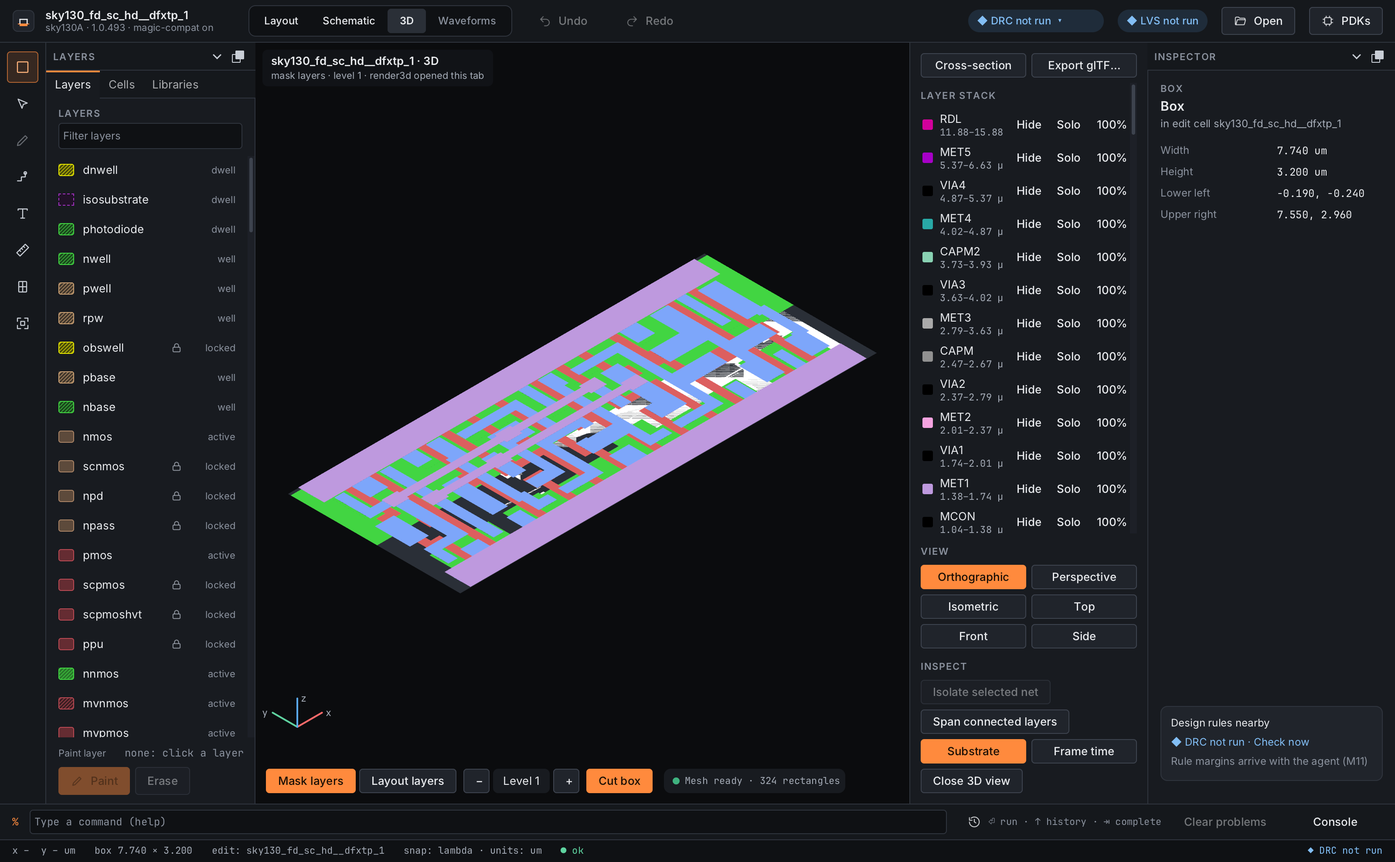
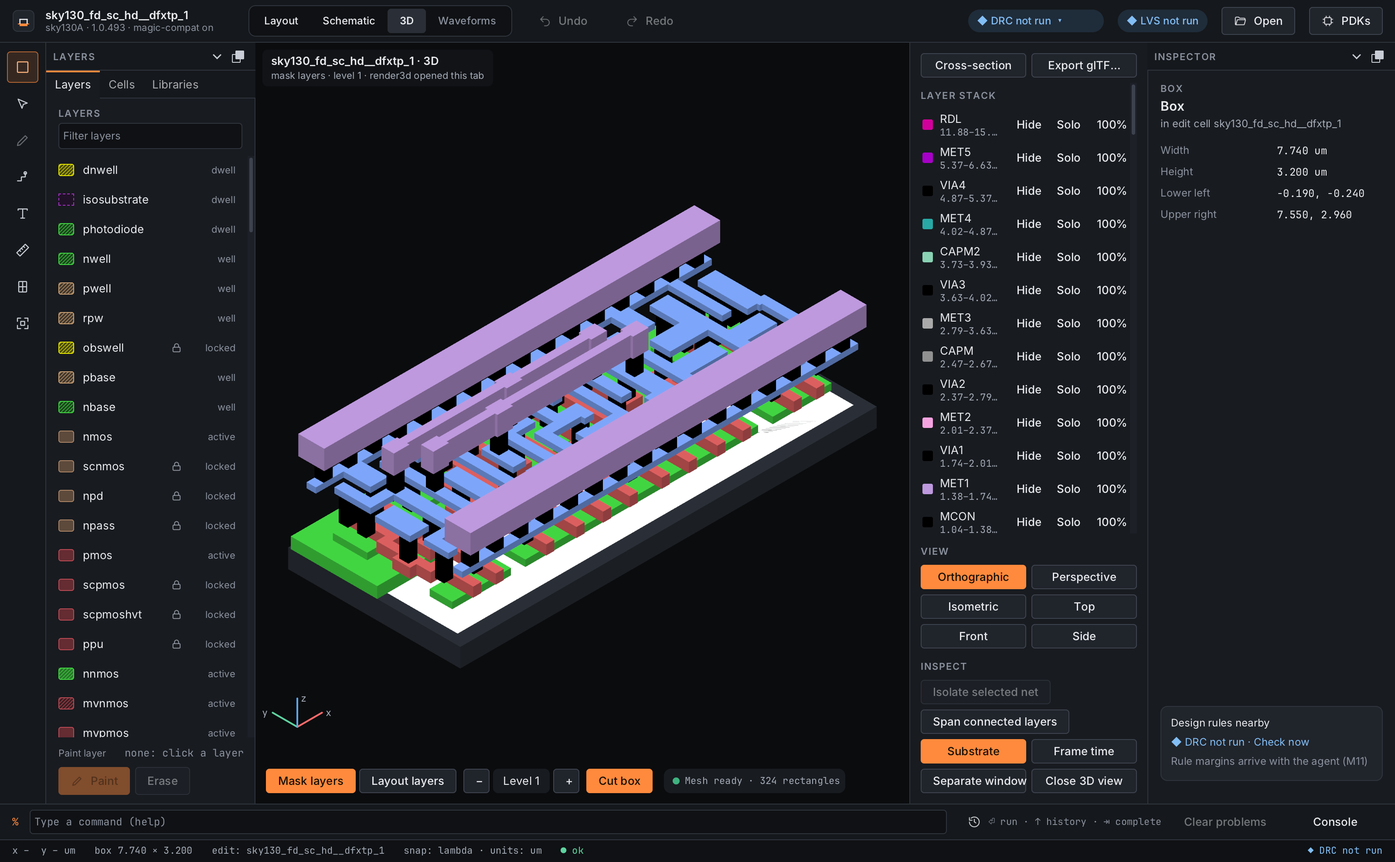
M10 3D round 6 SHELL: captures, conformance 'Round 6', README 3D section, tasks 9.6/10.4/17.2/17.3
After captures (macOS): dfxtp_1 mask-layer mode in proportion with
magic-compat ON and OFF, ellipsized layer rows at 1280 px, the inv_1 net
overlay, the detached 3D window. README shows the mask-layer board view.

Changed region(s): [[0.1875, 0.2467, 0.625, 0.771], [0.6875, 0.8943, 0.8125, 0.9252]]

diff --git a/docs/design/m10-3d-ui-conformance.md b/docs/design/m10-3d-ui-conformance.md
@@ -34,6 +34,22 @@ Round 5 (SHELL, branch `m10-3d-round5-shell`, 2026-11-25; tasks 9.6, 11.5): befo
 
 Round 5 integration (branch `m10-3d-round5`, 2026-11-25; task 10.2): the tab now builds the mask-layer mesh in mask-layer mode (MASKSRC's `view3d::window_build`). Before (the merged branch before the shell edit, kept out of the repository): sky130A's `dfxtp_1` opens in mask-layer mode with the "Mask layers arrive in phase 2" notice over the layout-layer mesh scaled by f (875 rectangles, the layout layers listed). After, macOS (same machine and build type, 1600 × 989, `hefesto -T sky130A.tech <cell>.mag --run 'magic::render3d' --capture …`): [view3d-mask-dfxtp1-macos.png](../images/ui/view3d-mask-dfxtp1-macos.png) (magic-compat ON: no notice, the stack lists sky130A's mask layers RDL … MCON with their `render` µm ranges, "Mesh ready · 324 rectangles"); [view3d-mask-dfxtp1-compat-off-macos.png](../images/ui/view3d-mask-dfxtp1-compat-off-macos.png) (magic-compat OFF: the same layers with Q-MISC-72's µm heights converted to internal units); [view3d-mask-section-dfxtp1-macos.png](../images/ui/view3d-mask-section-dfxtp1-macos.png) (1280 × 800, Cross-section pressed in mask-layer mode: "A–A′ 7.74 µm · 4 layers", the box's width, so the line is scaled to the mesh's mask units; layers without a `render` height named with `VIEW3D-STACK-001`). With magic-compat ON the stack is drawn almost flat: Q-MISC-72 keeps the `render` values as stored (µm) while x and y are in mask units, and the board z scale (`board_scale_z`, kBoardScaleZ × f) was chosen for layout-layer heights; coplanar layers z-fight in that view. Reported to the user (the opening z scale is an open round-4 item); OFF is in proportion. The mask-layer stack ghosts nothing (Q-MISC-85 classifies layout layers).
 
+Round 6 (SHELL, branch `m10-3d-round6-shell`, 2026-11-26; tasks 9.6, 10.4 desktop part, 17.2, 17.3 desktop part; CORE's and RENDER's round-6 branches merged first). Before captures are the round-5 images these replace (the origin/main state, kept out of the repository): sky130A's `dfxtp_1` in mask-layer mode drawn nearly flat with magic-compat ON, in proportion with OFF; the layer rows' long names and ranges clipped by the row buttons at 1280 × 800; no net overlay; no separate window. After captures, macOS (Apple M3 Pro, MoltenVK, debug build, `hefesto -T sky130A.tech <cell>.mag --run '…' --capture …`, Magic's `mos` styles in a CAD_ROOT): [view3d-mask-dfxtp1-macos.png](../images/ui/view3d-mask-dfxtp1-macos.png) (`magic::render3d`, mask-layer mode, magic-compat ON, 1600 × 989) and [view3d-mask-dfxtp1-compat-off-macos.png](../images/ui/view3d-mask-dfxtp1-compat-off-macos.png) (`setting set magic-compat off` first): the same picture, the stack in proportion; [view3d-dfxtp1-1280-macos.png](../images/ui/view3d-dfxtp1-1280-macos.png) (layout layers, 1280 × 800: "mrdlcont…", "mimcap2…" and the ranges ellipsized); [view3d-net-overlay-inv1-macos.png](../images/ui/view3d-net-overlay-inv1-macos.png) (`sky130_fd_sc_hd__inv_1`, `select area metal1` over the cell, mask-layer mode, magic-compat ON: the VPWR and VGND nets in the overlay colour over the mask layers; OFF gives the same picture); [view3d-detach-tab-macos.png](../images/ui/view3d-detach-tab-macos.png) (1280 × 800, "Detach view" pressed: the tab says where the view went) and [view3d-detach-window-macos.png](../images/ui/view3d-detach-window-macos.png) (the second window, `screencapture -l` of its window id: the same isometric board view). In a debug build the mask-layer tab builds twice on opening (a full 2D redisplay right after `render3d` resets the build key), so a 90-frame capture can still show "Building mesh · 0 %"; the after captures run 1500 frames (open item, "Round 6"). Linux captures come from the PR's CI desktop legs (`view3d-captures-<leg>`; open).
+
+## Round 6: board z scale, net overlay, layer rows, detach, export formats (tasks 9.6, 10.4, 17.2, 17.3)
+
+Compared with the board `docs/design/mockups/View3D.dc.html` and the round-6 after captures.
+
+| Element | Seen in the after captures | Status / gap |
+|---|---|---|
+| Mask-layer stack in proportion with magic-compat ON (17.2, B1) | The tab's opening isometric camera and the presets set s_z = kBoardScaleZ × f / (µm per internal unit) in mask-layer mode with magic-compat ON (`board_scale_z(window, stack)`), through the same absolute `zoom`; OFF keeps kBoardScaleZ × f; layout-layer mode keeps 1. dfxtp_1 in mask-layer mode looks the same with ON and OFF, the metal rails standing over li1 and the diffusions. Windows opened by `specialopen wind3d`, scripts and `defaults` keep Magic's s_z. A µm per unit that is zero or not finite keeps kBoardScaleZ × f (test). | done (macOS, both modes) |
+| Net overlay in mask-layer mode (10.4) | With layout paint selected in 2D, the selection's nets (`view3d::net_overlay`, hierarchical) are drawn by RENDER's overlay pass in `overlay_color` over the mask layers; recomputed with the highlight on selection, mode and model changes, for the drawn model only; layout-layer mode keeps the instance highlight. Each prism spans the drawn stack's z range (CORE's design), so on inv_1 the columns run from the substrate to the technology's top layer, above the framed cell. | partial: drawn, correct in plan; the column height (the whole stack, not the net's own layers) looks heavy (open item for CORE) |
+| Layer row text at 1280 × 800 | Names and ranges are ellipsized to the row ("mrdlcont…", "7.26–10.2…") before the row buttons; the tooltip and the screen-reader name keep the full text ("mrdlcontact, 6.63–7.26 µm, shown"). Test "long layer names are ellipsized to the row and keep their full name for tooltips and screen readers". | done (macOS 1280 × 800); the board shows the row buttons only on hover, here they stay (keyboard reach) |
+| "Open in separate window" | The side panel's "Window" pair has "Detach view" (a toggle; the label "Separate window" was cut off in its grid cell at 1280 px): the 3D view moves to a second Raven window (`Rwindow_create`) with its own texture-mode viewport, on the same session window; the tab shows "Shown in a separate window." and how to bring it back; closing the window or turning the toggle off returns the view to the tab. | done (macOS: second window captured); a side-panel toggle, not a menu item on a tab caret (Raven's segmented control has no per-segment menu) |
+| Export formats (11.5 polish) | "Export glTF…" opens a menu: glTF, GLB, STL (one solid per layer) and STL merged, each running `<path> export3d <file> -format gltf\|glb\|stl [-merged]` after the save dialog. Tests "Export offers glTF, GLB and STL per layer or merged as export3d's -format and -merged", "Export from the tab runs export3d with the chosen format and writes it". | done (headless; Raven's popup menu under the button) |
+| Span connected layers (17.3) | The toggle sets the window's `span_connected_layers` (CORE), so `export3d` from the tab exports what is shown; the build key follows it (a full build). | done (headless, both modes) |
+| Mesh status while the mask-layer tab opens | The tab builds the mask-layer mesh twice on opening: a full 2D redisplay owed right after `render3d` resets the build key; the chip reads "Building mesh · 0 %" for a few seconds in a debug build. | partial: open item (tell a redisplay from an edit before a full rebuild) |
+
 ## Round 5: floating toolbar, fit at 1280 × 800, P2 screen part (tasks 9.6, 11.5)
 
 Compared with the board `docs/design/mockups/View3D.dc.html` and the round-5 after captures.
@@ -45,9 +61,9 @@ Compared with the board `docs/design/mockups/View3D.dc.html` and the round-5 aft
 | Presets and projection | Pinned under the scrolled layer stack ("View"), always visible, as the board pins them to the bottom of its aside; the layer list scrolls above them. | done (macOS) |
 | Cross-section (task 11.5) | The "Cross-section" toggle cuts A–A′ along the layout box's long axis (axis-aligned; else the cut box, else the cell's bounding box), clips the 3D view at the vertical plane through the line (`DrawParams::section_plane`, keeping the side away from the isometric viewer) and shows the "Cross-section A–A′" panel under Inspect: each layer's intervals from h to h + t in µm (`view3d::section`, hidden layers left out) in its display style's colour at the row's transparency, the line's length, the layers with no height named; the section's diagnostics go to the console once per line (the window test's tech, which has no µm scale, reports `VIEW3D-SECTION-002`). With Cross-section on, two clicks in the 3D view set A and A′ on the z = 0 plane (`view3d::ground_point`; front and side views see the plane edge on, so a click there picks). | done (macOS: dfxtp_1 cut along its long axis, panel with 6 layers; the window test's cell with the warning); the board draws the panel in the right aside, here it is under Inspect in the side panel |
 | Export glTF… (task 11.5) | Asks for a file with the platform save dialog (`platform::FilePicker`: glTF, glTF binary, STL; "<cell>.gltf" proposed) and runs `<path> export3d <file>` (or plain `export3d <file>` when the command is not in the 3D window's table). | done at integration: `export3d` (EXPORT, D14) is registered on the round branch, and the button is enabled in the round-5 integration captures |
-| Mask-layer mode (task 10.2) | No "phase 2" notice; the mask layers of the current output style, in mask units, with their `render` heights; the mask visibility set hides layers; the stack lists the mask layers. | done (macOS, both modes); magic-compat ON draws the stack nearly flat (see "Round 5 integration" above) |
+| Mask-layer mode (task 10.2) | No "phase 2" notice; the mask layers of the current output style, in mask units, with their `render` heights; the mask visibility set hides layers; the stack lists the mask layers. | done (macOS, both modes); round 6: in proportion with magic-compat ON too (see "Round 6") |
 | Substrate slab | A "Substrate" toggle (default on, the board look) sets `DrawParams::substrate` from `view3d::substrate_slab`: the dark slab under the stack in every after capture. | done (macOS); not listed as a layer-stack row as on the board ("substrate · ghosted"): it is not a layer |
-| Layer row text at 1280 × 800 | The rows end before the scroll bar; long sky130A names and their µm ranges ("mrdlcontact", "6.63–7.26 µm") are clipped by the three row buttons. | partial: clipped long names (the board shows the row buttons only on hover) |
+| Layer row text at 1280 × 800 | The rows end before the scroll bar; long sky130A names and their µm ranges ("mrdlcontact", "6.63–7.26 µm") are clipped by the three row buttons. | Round 6: done (ellipsized, full text in the tooltip and screen-reader name; see "Round 6") |
 
 ## Round 4 board look (Q-MISC-84, Q-MISC-85; tasks 16.6-16.8, 16.10)
 
@@ -97,7 +113,7 @@ Round 3 (SHELL): `Mesh3dSpike` is removed (`mesh3d_spike.hpp|.cpp`, the `mesh3d_
 |---|---|---|
 | Editor-view tab "3D" next to Layout and Schematic | The segmented control's "3D" is live: a click shows the 3D view (a second Raven viewport in texture mode beside the layer stack panel), or runs `magic::render3d` when no window is open; "Layout" shows the canvas again. Enter or Space on the focused control toggles the two. | done (macOS and Linux X11/Wayland captures) |
 | Window > 3D Display and `render3d` open the tab | Options > 3D Display (Magic's wrapper puts it under Options) is enabled; any open of the 3D window (`render3d`, `specialopen wind3d`) shows the tab, `closewindow` returns to Layout. Test "Options > 3D Display is enabled". | done (opened by `render3d` in the macOS and Linux captures) |
-| "Open in separate window" tab menu item | Not built: a Raven window per tab needs a second texture-mode viewport host. | todo (open item, P2) |
+| "Open in separate window" tab menu item | Round 6: the "Detach view" toggle hosts the view in a second Raven window with its own texture-mode viewport (see "Round 6"). | done (macOS); a side-panel toggle, not a tab-caret menu item |
 | Progress while a mesh builds; the previous model stays visible | One `MeshWorker` per window; status line "Building mesh · n %", then "Mesh ready · n rectangles"; the previous model stays drawn until the new one is done. | partial: "Mesh ready" seen in the macOS capture; the progress state is too short on a cell to capture |
 | Focus-based command routing (`.magic3d <cmd>` and the command bar) | While the 3D tab is shown, a typed line whose first word is a `wind3d` command runs as `<path> <line>`; keys in the 3D view run the `wind3d` macro table on the path. Tests "lines typed while the 3D view has the focus go to the window's path", "keys in the 3D view run the wind3d bindings on the window's path". | done (headless) |
 | "Mask layers arrive in phase 2" notice in mask-layer mode (D1) | A warning banner at the top of the view in mask-layer mode; the layout mesh is drawn with xy scaled by f through `DrawParams::xy_scale` (integrated in round 3). | done |
@@ -123,14 +139,14 @@ Round 3 (SHELL): `Mesh3dSpike` is removed (`mesh3d_spike.hpp|.cpp`, the `mesh3d_
 | Click picks a target; 3D → 2D selection and scroll | A left click (under 3 px of motion) reads the pick image, then `view3d::resolve` and `view3d::to_selection`; the caption "layer · picked · selected in 2D" shows bottom right. Integrated in round 3 with INSPECT's `resolve(mesh, PickContext, id)` (stack, rendered cell, compat flag set through `PickResolver::set_scope`). Tested with a fake resolver and a real-mesh resolver test. | partial: the 2D canvas does not scroll to `link_to_2d`'s area yet (no core hook) |
 | 2D selection highlighted in 3D | `view3d::from_selection` after every command, passed as `DrawParams::highlight`; the overload with the drawn stack. | done |
 | "Isolate selected net" | Toggle button: `view3d::net_highlight` of the picked target as the highlight (hierarchical search, the drawn stack, the project's compat flag). | done |
-| "Show contacts and vias" (J1 "Span connected layers") | "Span connected layers" toggle: a full build with `span_connected_layers` and the technology. | done (headless) |
+| "Show contacts and vias" (J1 "Span connected layers") | "Span connected layers" toggle: a full build with `span_connected_layers` and the technology; round 6: the window's flag, so `export3d` exports spanned. | done (headless) |
 
 ## Later phases
 
 | Element | Phase | Status / gap |
 |---|---|---|
 | Cross-section tool and the A–A′ section panel | P2 (task 11.5) | done (round 5, macOS; see "Round 5") |
-| Export glTF with the file picker | P2 (task 11.5) | done (round 5 integration; see "Round 5") |
+| Export glTF with the file picker | P2 (task 11.5) | done (round 5 integration; round 6: glTF / GLB / STL / STL merged menu) |
 | Mask-layer source | P2 (task 10.2) | done (round 5 integration) |
 | Overlay dropdown and legend | P3 (task 15.1) | later |
 | Touch orbit and pinch zoom | M14 (iPadOS) | later |
@@ -146,7 +162,7 @@ Reviewed on 2026-11-22 against `docs/design/mockups/View3D.dc.html` with the mac
 | View toolbar along the bottom of the 3D view (mode, level, cut box, mesh status) | Round 5: floats over the bottom of the view as on the board, flowing into rows on a narrow view (see "Round 5"). | done (macOS) |
 | Orthographic / Perspective and the presets | Round 5: the side panel's "View" section, pinned under the scrolled layer stack, in the board's two-column grid. | done (macOS) |
 | Inspect group (Isolate selected net, Span connected layers) | In the side panel's "Inspect" section with Frame time and Close 3D view. | done (picking integrated in round 3) |
-| Tab menu ("Open in separate window", "Close 3D view") | "Close 3D view" is a side-panel button; "Open in separate window" is not built. | todo (P2) |
+| Tab menu ("Open in separate window", "Close 3D view") | Both are side-panel buttons ("Detach view" since round 6, "Close 3D view"). | done (macOS); not on a tab caret |
 | Pick callout ("metal1 · VPWR, picked · selected in 2D") | Caption at the bottom right after a click. | blocked: INSPECT |
 
 ## Accessibility (task 9.6)
@@ -160,7 +176,8 @@ Checked on 2026-11-25 (round 5) on the running app (macOS 1280 × 800, the windo
 | State of toggles | Toggles announce ", on" / ", off" in the name (AXButton "Cut box, on", "Perspective, off"). Raven exposes a checked state (AXValue) only for its own check boxes, menu items and tabs; a painted widget with the toggle role has no way to set it. | partial: state in the name, not in AXValue; upstream Raven item (an accessible checked state for custom widgets) |
 | Groups and roles | AXToolbar "3D view toolbar" with AXGroups "Layer source (cif)" and "Rendering level"; AXGroup "3D view controls" (pane) with groups "3D actions", "Projection", "Camera", "View options"; AXList "Layer stack, top layer first"; section headings as AXStaticText; the separator is hidden from screen readers. | done (AX tree); the board's radio groups (mode, projection) are toggle buttons: Raven's wrapper has no radio role with a selected state |
 | Disabled controls | Export glTF… (no `export3d`), Isolate selected net (nothing picked) report `enabled = false` (`set_enabled` follows `control_view`). | done (AX tree) |
-| Outside the 3D tab | The tree also has an unnamed AXButton between the 3D tab and the inspector, and one after "Zoom to fit" (main window widgets, outside SHELL's 3D files; open item). | open item (main window) |
+| Outside the 3D tab | The tree also has an unnamed AXButton between the 3D tab and the inspector, and one after "Zoom to fit" (main window widgets, outside SHELL's 3D files; open item). Round 6: both are the 1-px separators of `make_separator` (no name, hit-testing off, but published as buttons): the tool-rail edge (`main_window.cpp`) is now hidden from screen readers as the 3D panel's edge is; the inspector's edge (`side_panels.cpp`) is still listed. | partial: rail edge fixed (1-line edit, ownership exception); inspector edge open item |
+| Round 6 controls | Tree read on 2026-11-26 (same method, `sky130_fd_sc_hd__dfxtp_1` at 1280 × 800 after a press on "Detach view"): two windows, "sky130_fd_sc_hd__dfxtp_1 · 3D" with an AXGroup "3D view" (the detached viewport) and the main window; in the side panel the AXGroup "Window" with AXButtons "Detach view, on" and "Close 3D view"; "Span connected layers, off"; the ellipsized rows keep the full names ("Isolate mrdlcontact", "Isolate mimcap2contact"); the status AXGroup "Mesh ready · 875 rectangles". The net overlay adds no control (it follows the 2D selection). A re-read after the rail-edge fix was attempted twice and System Events returned no windows for the process (shared Mac; not retried further), so that fix is checked by code and by the round-5 tree, where the 3D panel's separator hidden the same way was absent. | done (AX tree) for the round-6 controls; rail-edge fix not re-read |
 
 ## Performance (PERF, section 13)
 

diff --git a/openspec/changes/m10-3d-view/tasks.md b/openspec/changes/m10-3d-view/tasks.md
@@ -110,6 +110,7 @@ How this plan runs:
 - [x] 9.6 (SHELL) Desktop review of P1 against the board, keyboard and screen-reader labels for every control. Verify the review entries in `docs/design/m10-3d-ui-conformance.md`.
   As landed (round 3, SHELL): review entries in the conformance doc ("Desktop review of P1" and "Accessibility"); every control is a focusable button with a screen-reader name, toggles announce on/off; macOS screenshot `docs/images/ui/view3d-macos.png`; macOS and Linux (X11, Wayland) captures of the 3D tab test `view3d-tab-*.png`. Left open: a VoiceOver pass, the bottom view toolbar of the board (the parity controls sit in the side panel) (the README image is the new capture `view3d-macos.png`, done at integration; `view3d.png` stays as the mock-up render). Integration round 3: still open for the VoiceOver pass on the running app and the board's bottom view toolbar; neither is a D19 P1 exit criterion.
   As landed (round 5, SHELL, branch `m10-3d-round5-shell`): the toolbar floats over the bottom of the view (`raven_ui` `Widget::place_bottom_left`, new) and flows into rows on a narrow view; the side panel's paired buttons and presets are a two-column grid pinned under the scrolled layer stack, so every control fits at 1280 x 800 (regression test "the side panel's button grid and the floating toolbar fit a 1280-px-wide window"). Screen-reader pass: the running app's accessibility tree, read through System Events (VoiceOver not turned on, shared Mac), shows every 3D-tab control with its role and name; names and states come from `control_view` (tests "every 3D tab control has a screen-reader name and toggles announce their state", "controls are disabled, and exposed so, when they cannot act"). Gap: a painted toggle's on/off state is in its name, not AXValue (Raven has no checked state for custom widgets; upstream item). Review entries: conformance doc "Round 5" and "Accessibility".
+  As landed (round 6, SHELL, branch `m10-3d-round6-shell`): accessibility tree of the running app re-read through System Events (read-only, VoiceOver off): every 3D-tab control named, including the new "Detach view, on|off" toggle and the full layer name of an ellipsized row; the two unnamed AXButtons of round 5 were 1-px separators (the tool-rail edge in `main_window.cpp`, now hidden from screen readers; the inspector edge in `side_panels.cpp`, open item); toggles keep the ", on"/", off" name (Raven exposes no checked state for painted widgets, upstream item). Layer rows ellipsize long names and ranges with the full text in the tooltip and screen-reader name (test "long layer names are ellipsized to the row ..."); "Open in separate window" is the "Detach view" toggle: the 3D view moves to a second Raven window with its own texture-mode viewport on the same session window, closing it returns the view to the tab (captures `view3d-detach-*-macos.png`). Conformance doc section "Round 6".
 
 ## 10. MASKSRC: mask-layer source (P2)
 
@@ -120,9 +121,10 @@ How this plan runs:
   As landed (round 5 integration, branch `m10-3d-round5`): the tab builds from `view3d::window_build` (layout or mask stack, worker inputs, hidden flags); `BuildKey` holds the mode and the mask source's output style (a style change is a full build); frames draw at xy scale 1 with `view3d::hidden_layers`; the notice, `tab_stack`, `xy_factor` and the shell's `clip_area` are gone; `board_scale_z` keeps kBoardScaleZ × f. `MeshModel::units_per_root` (the scale factor for a mask-layer mesh) lets the section, the clipping plane, the two-click line and `export3d` convert mask units. Tests: shell "mask-layer mode builds the mask layers in mask units and draws them unscaled", "mask-layer mode draws the mask-layer stack, which ghosts nothing", "a cut line in root coordinates is scaled to the mask-layer mesh's units"; core "cross-section of a mask-layer mesh in mask units", export "A mask-layer mesh in mask units is exported in µm", "export3d in mask-layer mode writes the mask layers in µm". Captures in the conformance doc ("Round 5 integration"). Open: picking in mask-layer mode resolves no layout tile (layers have no tile type) and the 3D→2D link would use mask units; that belongs to 10.4 (INSPECT).
 - [x] 10.3 Invalidate and regenerate planes per chunk on edits and style changes. Verify that a local edit regenerates only the affected chunks with the halo.
   As landed (round 5): `rebuild_mask_chunks` / `MeshWorker::changed` in mask-layer mode regenerate only the chunks within the halo of an edit (the edit grown by the radius, in mask units, grown by 1); an output-style change is a new source (full build). Test: `mask_source_test.cpp` "a local edit regenerates only the mask-layer chunks within the halo of it" (versions of untouched chunks kept; geometry equal to a fresh build).
-- [ ] 10.4 Net highlighting in mask-layer mode as a layout-net overlay (design D10). Verify the inverter net drawn over mask geometry.
+- [x] 10.4 Net highlighting in mask-layer mode as a layout-net overlay (design D10). Verify the inverter net drawn over mask geometry.
 
   As landed (round 6, CORE; data part): `view3d::net_overlay` (seed or 2D selection) gives the layout net as `NetOverlayPrism`s in mesh units over the drawn stack's z range, clipped to the cut box (design "As-landed: round 6 CORE"). Test `tests/unit/view3d/pick/net_overlay_test.cpp` "Net highlighted over mask-layer geometry" (both modes: areas equal `connect::search_flat`'s times units_per_root², z per Q-MISC-72, cut box, selection, empty cases). Open: RENDER's `DrawParams::net_overlay` and SHELL's wiring (desktop part).
+  As landed (round 6, SHELL; desktop part): in mask-layer mode the tab passes `view3d::net_overlay` of the 2D selection (hierarchical, the session's compat flag), recomputed with the highlight against the drawn model (so a stale model of the other mode draws none), to `DrawParams::net_overlay` (`mask_net_overlay`, `overlay_prisms<render::OverlayPrism>`); layout-layer mode keeps the instance highlight. Tests `view3d_models_test.cpp` "Net highlighted over mask-layer geometry with magic-compat ON" / "... OFF". Capture `docs/images/ui/view3d-net-overlay-inv1-macos.png` (`sky130_fd_sc_hd__inv_1`, `select area metal1`, mask-layer mode): the prisms span the drawn stack's z range (CORE's choice), so they rise above the framed cell (open item).
 
 ## 11. INSPECT and EXPORT (P2)
 
@@ -226,7 +228,9 @@ Decisions of 2026-11-25 (set A) and 2026-11-26 (set B), all approved with the re
 
 - [x] 17.1 (DECIDE) Record the 2026-11-25 and 2026-11-26 decisions: new entries Q-MISC-86 (A1, A2), Q-MISC-87 (B18), Q-MISC-88 (B19) and Q-MISC-89 (B20) with `Status: approved <date>` and `- Resolution:`; the amendments of Q-MISC-84 (A4-A6, B1) and Q-MISC-85 (A7-A9, B2, B3, B7, B16); the other items under "Round-5 decisions without a Q row" and "Round-6 decisions without a Q row"; the decision table's "Round 5 and 6 decisions", counts and notable changes; the spec amendments with scenarios; design D7, D8, D10, D14, D15, the round-3 sign-off and "Decisions this design depends on". Verify `openspec validate --all --strict` and that `python3 scripts/check_milestone_readiness.py --milestone M10` lists no entry cited by view-3d or hefesto-3d-visualization.
   As landed (branch `m10-3d-round6-decide`): Q-MISC-86..89 were free on origin/main and on every remote and local branch (Q-MISC-90..93 are taken). Scenarios added: view-3d "Temporary mask layer drawn with magic-compat ON", "Temporary mask layer left out with magic-compat OFF", "Mask generation errors reported once per build with magic-compat ON", "Mask generation errors not reported with magic-compat OFF", "Mask-layer board view in proportion with magic-compat ON", "Mask-layer board view with magic-compat OFF", "Magic's z scale unchanged outside the desktop tab in mask-layer mode"; hefesto-3d-visualization "Cross-section of a split tile and of a tile edge", "Net highlighted over mask-layer geometry", "Export of a spanned view keeps the span". Amended: "Isometric default in mask-layer mode", "setpoint names the window script commands go to", "Clipping plane hides one side", "Substrate slab under the stack", "Export without a 3D window", "Per-layer STL". The "pending the user's confirmation" wording is gone from view-3d and the decision table. `docs/specs-index.md` regenerated.
-- [ ] 17.2 (SHELL) B1: in the desktop tab, in mask-layer mode with magic-compat ON, the board z scale (`board_scale_z`, the opening isometric `zoom`) is `kBoardScaleZ` × f / (µm per internal unit); with OFF it stays `kBoardScaleZ` × f; `defaults` and windows opened by `specialopen wind3d`, scripts or hefesto-cli keep Magic's s_z. Verify `[cap:view-3d][req:Viewing transform and shading]` view-model tests, one per mode: "Mask-layer board view in proportion with magic-compat ON", "Mask-layer board view with magic-compat OFF", "Magic's z scale unchanged outside the desktop tab in mask-layer mode", and the amended "Isometric default in mask-layer mode"; the ON test fails without the change.
-- [ ] 17.3 (CORE, SHELL) B17: J1's "Span connected layers" flag in `view3d::WindowState` (CORE: the field, `window_build`'s inputs and `export3d` reading it; SHELL: the desktop toggle edits the window's flag instead of `View3dOptions`, and the tab's build key follows it). Verify `[cap:hefesto-3d-visualization][req:3D export]` "Export of a spanned view keeps the span" (a spanned via exported from the top of metal1 to the bottom of metal2, unspanned with the option off, both modes) and a SHELL view-model test that the toggle sets the window's flag.
+- [x] 17.2 (SHELL) B1: in the desktop tab, in mask-layer mode with magic-compat ON, the board z scale (`board_scale_z`, the opening isometric `zoom`) is `kBoardScaleZ` × f / (µm per internal unit); with OFF it stays `kBoardScaleZ` × f; `defaults` and windows opened by `specialopen wind3d`, scripts or hefesto-cli keep Magic's s_z. Verify `[cap:view-3d][req:Viewing transform and shading]` view-model tests, one per mode: "Mask-layer board view in proportion with magic-compat ON", "Mask-layer board view with magic-compat OFF", "Magic's z scale unchanged outside the desktop tab in mask-layer mode", and the amended "Isometric default in mask-layer mode"; the ON test fails without the change.
+  As landed (round 6, SHELL): `board_scale_z(window, stack)` divides kBoardScaleZ × f by `LayerStack::microns_per_unit` in mask-layer mode with the stack's magic-compat ON (zero, negative or non-finite µm per unit, or a non-finite result, keep kBoardScaleZ × f); the opening isometric camera and the presets use it through the same absolute `zoom`. Tests: the three named scenarios plus "the mask-layer board z scale ignores a µm per unit that is zero or not finite". Captures `view3d-mask-dfxtp1-macos.png` (ON) and `view3d-mask-dfxtp1-compat-off-macos.png` (OFF): the same picture.
+- [x] 17.3 (CORE, SHELL) B17: J1's "Span connected layers" flag in `view3d::WindowState` (CORE: the field, `window_build`'s inputs and `export3d` reading it; SHELL: the desktop toggle edits the window's flag instead of `View3dOptions`, and the tab's build key follows it). Verify `[cap:hefesto-3d-visualization][req:3D export]` "Export of a spanned view keeps the span" (a spanned via exported from the top of metal1 to the bottom of metal2, unspanned with the option off, both modes) and a SHELL view-model test that the toggle sets the window's flag.
+  As landed (round 6, SHELL; desktop part): the "Span connected layers" toggle calls `toggle_span_connected_layers` (`view3d::set_span_connected_layers` on the tab's path); `View3dOptions::span_connected_layers` is gone, the build key and the control's state read the window's flag. Test "the Span connected layers toggle sets the window's flag, which the build and export3d read" (both modes; the Export menu's `export3d` command writes the file).
 - [ ] 17.4 (CORE) B20, Q-MISC-89: with magic-compat ON the generation errors of a 3D mask-layer build (full or incremental) are reported once per build to the console, never as feedback; with OFF they are not reported. Verify `[cap:view-3d][req:Rendered geometry]` "Mask generation errors reported once per build with magic-compat ON" (one report for a build followed by two redraws, no feedback area) and "Mask generation errors not reported with magic-compat OFF"; the ON test fails without the change.
 - [ ] 17.5 (RENDER) Coplanar faces of different layers (or a layer and the substrate slab, or the 10.4 overlay) are drawn deterministically, with no z-fighting: the same pixels on every frame and every orbit angle, the later layer in style-table order winning (Q-MISC-77). Verify `[cap:view-3d][req:Viewing transform and shading]` a headless image test of two coplanar layers in the isometric preset and after small orbits (identical winner per pixel across frames, both modes) that fails without the fix.

diff --git a/openspec/changes/m10-3d-view/design.md b/openspec/changes/m10-3d-view/design.md
@@ -652,3 +652,14 @@ Branch `m10-3d-round6-core` (view3d client, mesh, pick, export; R5 items 17 and 
 - **Mask generation errors (R5 item 20, compat).** `BuildContext::sink` and `BuildInputs::sink` (copied by `build_once`; called on the build thread, so a worker's host passes a thread-safe sink). `build_mask` (a full mask-layer build) generates with `report_errors` and `GenerationContext::sink` set to the build's sink when `MaskSource::generation.compat.magic_compat` is set; `rebuild_mask` (incremental chunks) never reports, so one build reports once and a new full build (style change, `build()`) reports again. Never as feedback (`GenerationContext::problems` is not read). OFF reports nothing. The errors keep their mask codes (e.g. MASK-OPER-004); no VIEW3D code was added. `build_scene` passes ctx's sink; `export3d` passes the command's sink.
 - **Net overlay (task 10.4, data part).** `view3d::net_overlay(mesh, editor, window, seed|selection, NetOptions)` in `pick/pick.hpp` returns `NetOverlay{prisms, types}` of `NetOverlayPrism{x0, y0, x1, y1, z_bottom, z_top}`: the net's tiles (through `connect::search_flat` or `search_hierarchical`, painted into a scratch cell and read back per type on its home plane, so a contact appears once; a split tile as its bounding box), clipped to the window's cut box, xy in absolute mesh units (root coordinates times `units_per_root`, the space the chunk origins are in: the renderer draws them with the chunk transform of origin (0, 0)). z convention: every prism spans the drawn stack, from the lowest h to the highest h + t of the mesh's layers with a positive thickness (every layer when none has one), unscaled by s_z like `layer_heights`, so the Q-MISC-72 split applies. The selection overload unites the nets of the selected tiles and needs the selection rooted in the rendered cell; it is the mask-layer entry point (picking resolves no layout tile there). The net search shared with `net_highlight` moved to `pick/net.cpp` (`detail::NetPaint`, `search_net`, `usable_seed`). RENDER adds `render::OverlayPrism` with the same fields and `DrawParams::net_overlay` and `overlay_color`; SHELL converts and draws it in mask-layer mode only.
 - **setpoint compat row.** Both modes already had a test (`routing_test.cpp`, "setpoint naming a window ..."); no change.
+
+## As-landed: round 6 SHELL
+
+Branch `m10-3d-round6-shell` (`shell/desktop` 3D view and view models; tasks 9.6, 10.4 desktop part, 17.2, 17.3 desktop part; CORE's and RENDER's round-6 branches merged in).
+
+- **B1 board z scale (17.2).** `board_scale_z(window, stack)`: kBoardScaleZ × f in mask-layer mode, divided by `LayerStack::microns_per_unit` when the stack's magic-compat is ON (heights as stored in µm under x and y in mask units); a zero, negative or non-finite µm per unit, or a non-finite result, keeps kBoardScaleZ × f. The opening isometric camera and the presets apply it with the same absolute `zoom`; `defaults`, `specialopen wind3d` and script windows keep Magic's s_z. dfxtp_1 in mask-layer mode now looks the same with ON and OFF.
+- **J1 toggle (17.3).** `toggle_span_connected_layers(session, path)` flips `WindowState::span_connected_layers` through CORE's `set_span_connected_layers`; `View3dOptions::span_connected_layers` is removed; the build key, the build inputs and the control's state read the window's flag, so the tab's `export3d` exports spanned.
+- **Net overlay (10.4).** `mask_net_overlay(mesh, editor, window, compat)` is `view3d::net_overlay` of the 2D selection in mask-layer mode against the drawn model (empty in layout-layer mode, without a model, or for a model of the other mode); `overlay_prisms<render::OverlayPrism>` copies the prisms field by field into `DrawParams::net_overlay`. It is recomputed with the highlight (selection, mode and model changes). RENDER's fields arrived before the end of the round, so no compile-time guard is left.
+- **P2 polish.** Export menu (glTF, GLB, STL, STL merged → `export3d <file> -format … [-merged]`, `PopupMenu::open_below` appended to `raven_ui`); layer rows ellipsized with the full text in tooltips and screen-reader names; "Detach view" moves the view to a second Raven window with its own texture-mode viewport (closing it returns the view), labelled so it fits its grid cell at 1280 px; the tab's notice is two short lines.
+- **Accessibility (9.6).** The two unnamed AXButtons of round 5 are 1-px separators drawn by `make_separator`: the tool-rail edge (`main_window.cpp`, hidden from screen readers here, a 1-line ownership exception) and the inspector edge (`side_panels.cpp`, open item: `edge_->set_accessible_hidden(true);` after `InspectorPanel`'s `make_separator`, or hide every separator in `make_separator`).
+- **Open.** The mask-layer tab builds twice on opening: a full 2D redisplay owed right after `render3d` arrives as `Change::content` with `all` and resets the build key (`on_window_changed`); telling a redisplay from an edit needs a core signal. The overlay's prisms span the whole drawn stack's z range (CORE), so on a small cell they rise far above the framed geometry.

diff --git a/README.md b/README.md
@@ -140,9 +140,9 @@ xschem-compatible schematic with PDK symbols, a testbench code block, ngspice wa
 ![Schematic and waveforms](docs/images/ui/schematic.png)
 
 ### 3D inspection
-The 3D tab (M10, macOS capture): `sky130_fd_sc_hd__dfxtp_1` built from the layer stack in the tech file and seen isometrically from above, on the app's dark theme, with flat shading in the layers' own colors (top faces lighter than sides). Wells, implants and other non-conducting layers are ghosted so the devices show through, and a substrate slab sits under the stack. The floating toolbar switches between layout and mask layers, steps the level and sets the cut box; the side panel has the layer stack (micron ranges, hide, solo, transparency), the Orthographic/Perspective and Isometric/Top/Front/Side views, net isolation, and a cross-section A-A' along the box. Models export to glTF and STL. The look is the same with magic-compat on or off; Magic's own 3D commands and their text output are unchanged. A current-density overlay from simulation arrives in phase 3.
+The 3D tab (M10, macOS capture): `sky130_fd_sc_hd__dfxtp_1` built from the mask layers of the tech file's output style (Magic's `render` heights) and seen isometrically from above, on the app's dark theme, with flat shading in the layers' own colors (top faces lighter than sides) and a substrate slab under the stack; the stack is drawn in proportion with magic-compat on or off. The floating toolbar switches between mask and layout layers (in layout layers, wells, implants and other non-conducting layers are ghosted so the devices show through), steps the level and sets the cut box; the side panel has the layer stack (micron ranges, hide, solo, transparency), the Orthographic/Perspective and Isometric/Top/Front/Side views, net isolation (in mask-layer mode the nets selected in 2D are drawn over the mask geometry), span connected layers, a cross-section A-A' along the box, and Detach view, which moves the 3D view into its own window. Models export to glTF, GLB and STL (per layer or merged). Magic's own 3D commands and their text output are unchanged. A current-density overlay from simulation arrives in phase 3.
 
-![3D inspection](docs/images/ui/view3d-section-dfxtp1-macos.png)
+![3D inspection](docs/images/ui/view3d-mask-dfxtp1-macos.png)
 
 ### DRC results browser
 The approved M3 board: errors grouped by why-text with counts, `#k of n` stepping on the canvas, the error-area inspector, ignored rules and the style selector, and the DRC status chip. The measured value against the required value, nets, a suggested fix and the sign-off summary arrive in later milestones.
